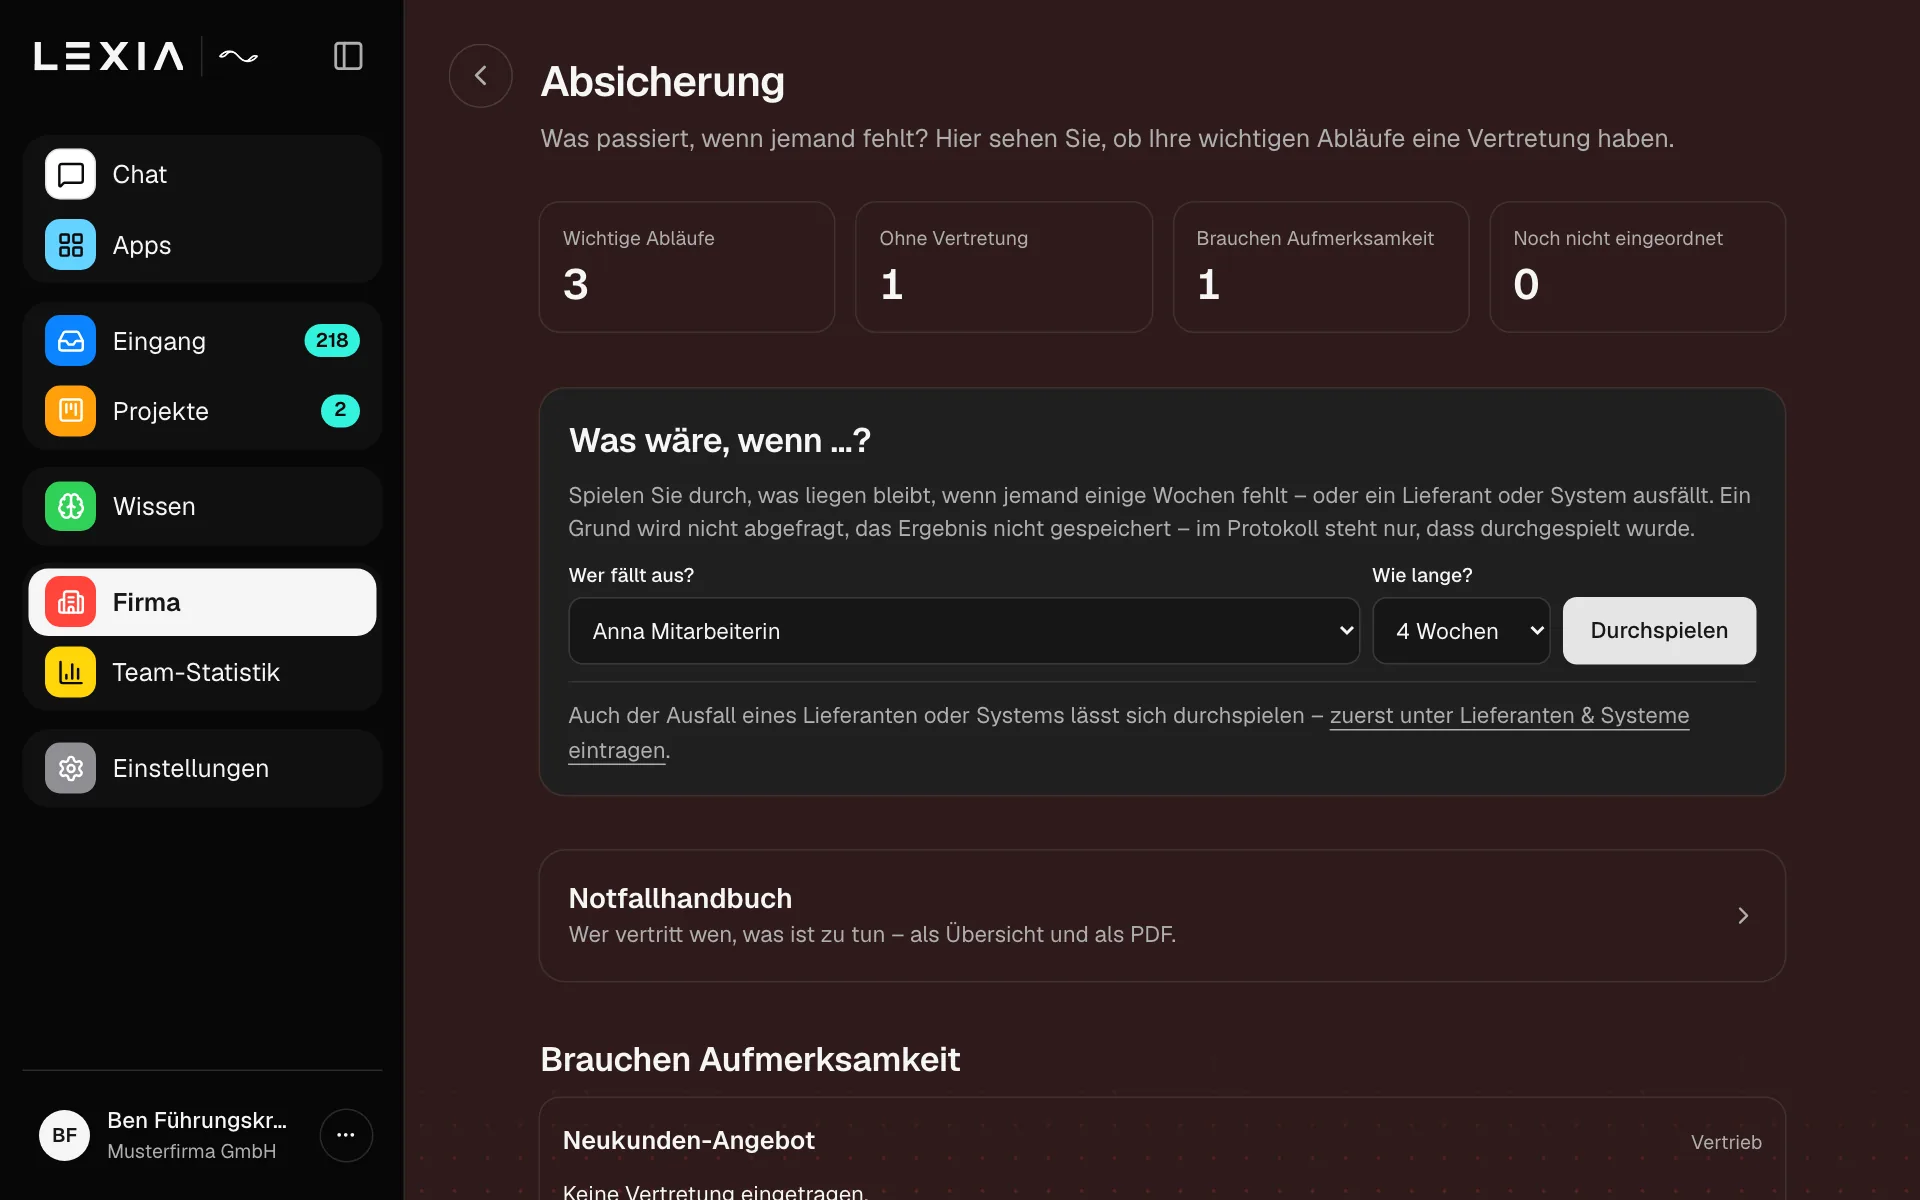
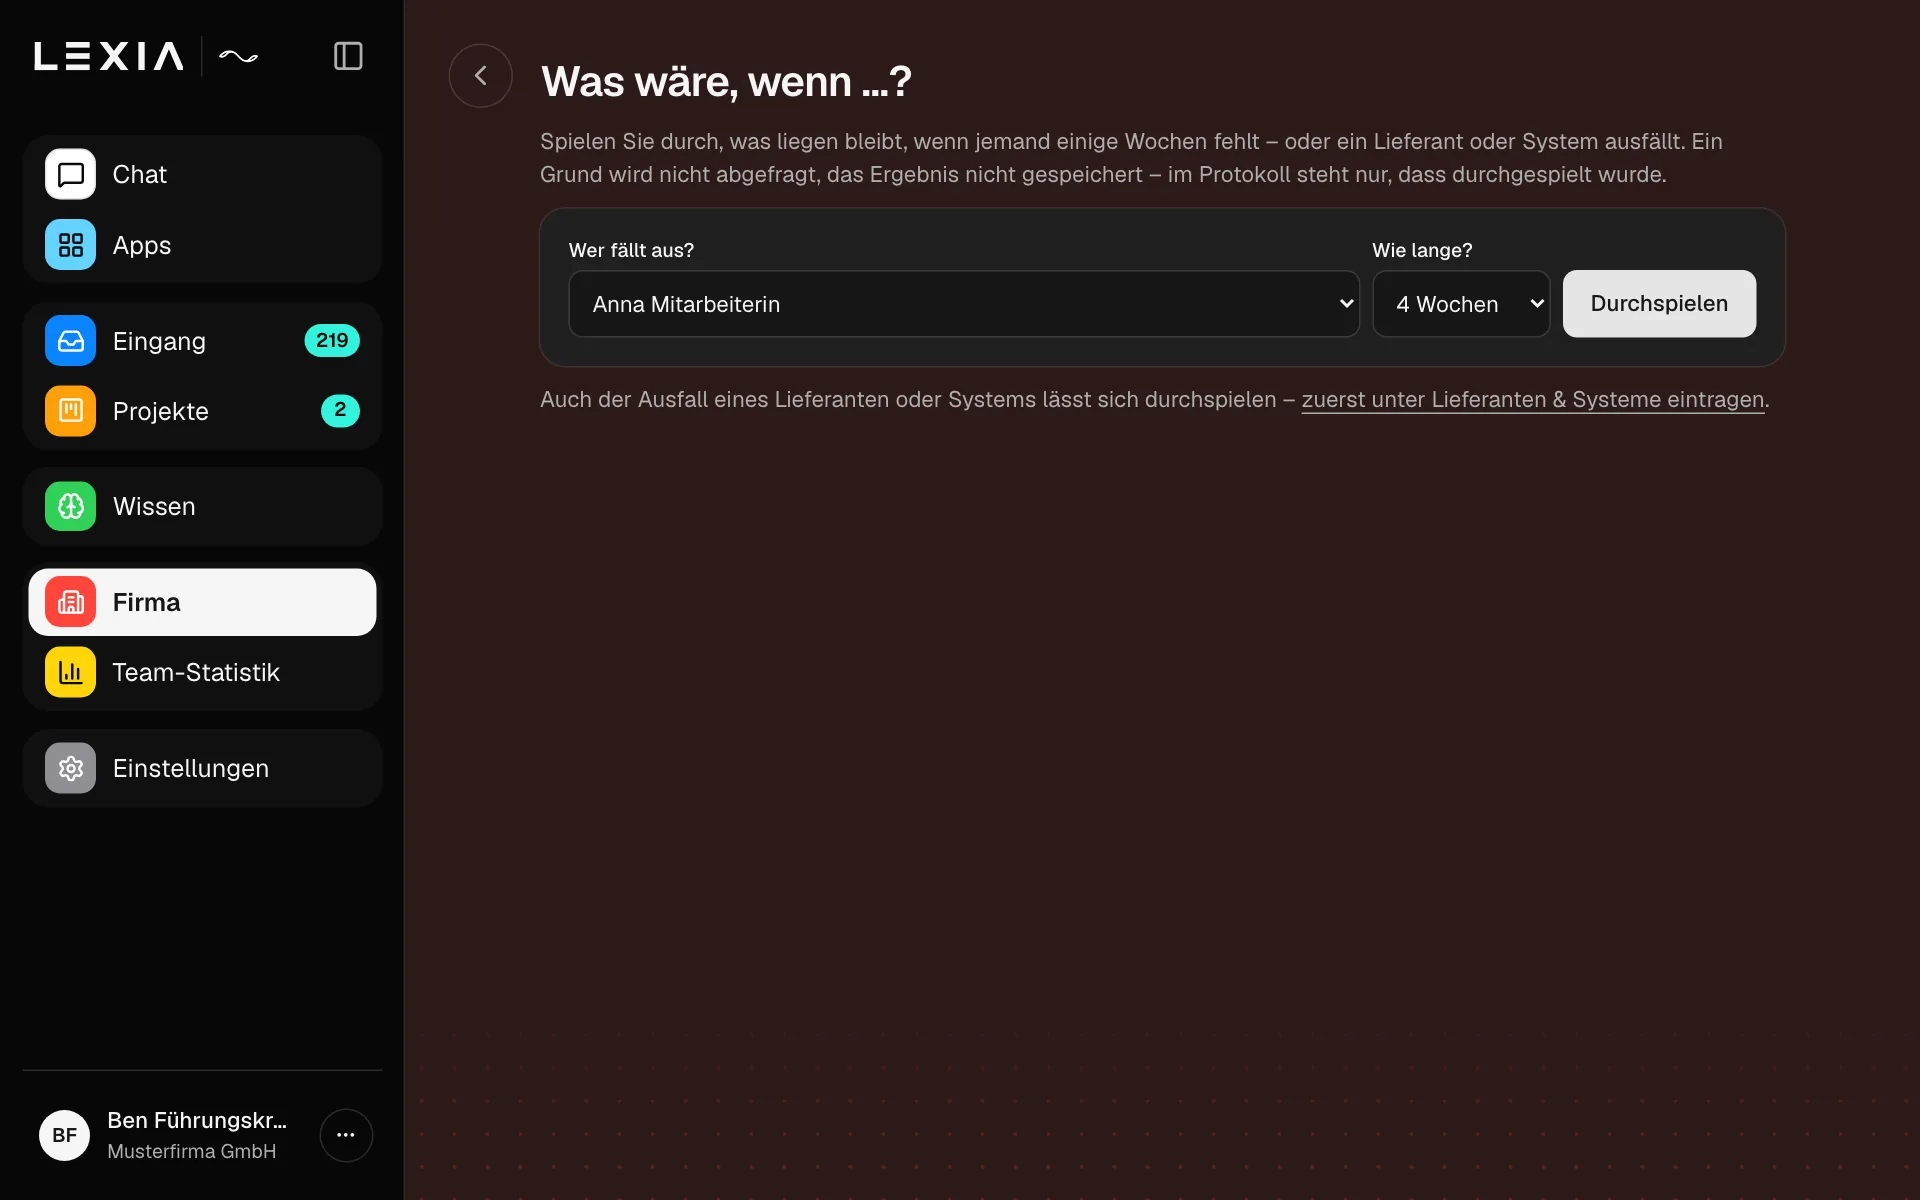
Rundgang Absicherung: neue Bilder nach U24 (iOS-Stil)

diff --git a/lexia.html b/lexia.html
@@ -665,7 +665,7 @@
                             <ol class="tour-schritte mt-6">
                                 <li data-tour-schritt="1"><h3>Sehen, wo eine Vertretung fehlt</h3><p>Unter Firma → Absicherung stehen Ihre wichtigen Abläufe. LEXIA zeigt, wo niemand einspringen kann – mit „Jetzt festlegen“.</p></li>
                                 <li data-tour-schritt="2"><h3>Vertretung mit einem Klick</h3><p>Am Ablauf wählen Sie, wer verantwortlich ist und wer vertritt. „Speichern – ist so aktuell“ bestätigt die Zuständigkeit zugleich.</p></li>
-                                <li data-tour-schritt="3"><h3>Was wäre, wenn …?</h3><p>Person und Zeitraum wählen, dann „Durchspielen“. Einen Grund fragt LEXIA nicht ab, das Ergebnis wird nicht gespeichert.</p></li>
+                                <li data-tour-schritt="3"><h3>Was wäre, wenn …?</h3><p>Unter „Werkzeuge“ öffnen, Person und Zeitraum wählen, dann „Durchspielen“. Einen Grund fragt LEXIA nicht ab, das Ergebnis wird nicht gespeichert.</p></li>
                                 <li data-tour-schritt="4"><h3>Bleibt liegen, wird knapp, jemand übernimmt</h3><p>Aus Zuständigkeiten, Vertretungen, Fristen und Projekten rechnet LEXIA, was in der Zeit passiert – jeder Punkt mit Grund, ohne Bewertung der Person.</p></li>
                                 <li data-tour-schritt="5"><h3>Maßnahmen gleich als Aufgaben</h3><p>Unter dem Ergebnis stehen passende Schritte, etwa „Vertretung festlegen“. Ausgewählte Maßnahmen werden Ihre eigenen Aufgaben.</p></li>
                                 <li data-tour-schritt="6"><h3>Das Notfallhandbuch entsteht von selbst</h3><p>Wer vertritt wen, wo sind Lücken: als Vorschau und als PDF zum Ablegen. Solange nicht alles bestätigt ist, steht „Entwurf“ darauf.</p>
@@ -678,12 +678,12 @@
                         </div>
                         <div class="tour-rahmen" data-tour-rahmen aria-hidden="true">
                             <div class="lx" data-tour-buehne>
-                                <img class="rg-bild" data-bild="absicherung-1" data-xy="444,679" src="assets/img/rundgang/absicherung-1.webp?v=8e77d3f9" width="1280" height="800" alt="" loading="lazy" decoding="async">
-                                <img class="rg-bild" data-bild="absicherung-2" data-xy="487,541" src="assets/img/rundgang/absicherung-2.webp?v=0827e6bc" width="1280" height="800" alt="" loading="lazy" decoding="async">
-                                <img class="rg-bild" data-bild="absicherung-3" data-xy="1106,420" src="assets/img/rundgang/absicherung-3.webp?v=89232895" width="1280" height="800" alt="" loading="lazy" decoding="async">
-                                <img class="rg-bild" data-bild="absicherung-4" data-xy="775,436" src="assets/img/rundgang/absicherung-4.webp?v=31e1f6ef" width="1280" height="800" alt="" loading="lazy" decoding="async">
-                                <img class="rg-bild" data-bild="absicherung-5" data-xy="487,725" src="assets/img/rundgang/absicherung-5.webp?v=ffb3017b" width="1280" height="800" alt="" loading="lazy" decoding="async">
-                                <img class="rg-bild" data-bild="absicherung-6" data-xy="471,281" src="assets/img/rundgang/absicherung-6.webp?v=3bd43990" width="1280" height="800" alt="" loading="lazy" decoding="async">
+                                <img class="rg-bild" data-bild="absicherung-1" data-xy="445,427" src="assets/img/rundgang/absicherung-1.webp?v=2cdfd0ba" width="1280" height="800" alt="" loading="lazy" decoding="async">
+                                <img class="rg-bild" data-bild="absicherung-2" data-xy="487,541" src="assets/img/rundgang/absicherung-2.webp?v=b32be8ea" width="1280" height="800" alt="" loading="lazy" decoding="async">
+                                <img class="rg-bild" data-bild="absicherung-3" data-xy="1106,203" src="assets/img/rundgang/absicherung-3.webp?v=3281002b" width="1280" height="800" alt="" loading="lazy" decoding="async">
+                                <img class="rg-bild" data-bild="absicherung-4" data-xy="775,436" src="assets/img/rundgang/absicherung-4.webp?v=2dabe6fd" width="1280" height="800" alt="" loading="lazy" decoding="async">
+                                <img class="rg-bild" data-bild="absicherung-5" data-xy="487,725" src="assets/img/rundgang/absicherung-5.webp?v=cc5b81ff" width="1280" height="800" alt="" loading="lazy" decoding="async">
+                                <img class="rg-bild" data-bild="absicherung-6" data-xy="471,281" src="assets/img/rundgang/absicherung-6.webp?v=0c87ba62" width="1280" height="800" alt="" loading="lazy" decoding="async">
                                 <span class="lx-finger" data-tour-zeiger></span>
                             </div>
                         </div>
